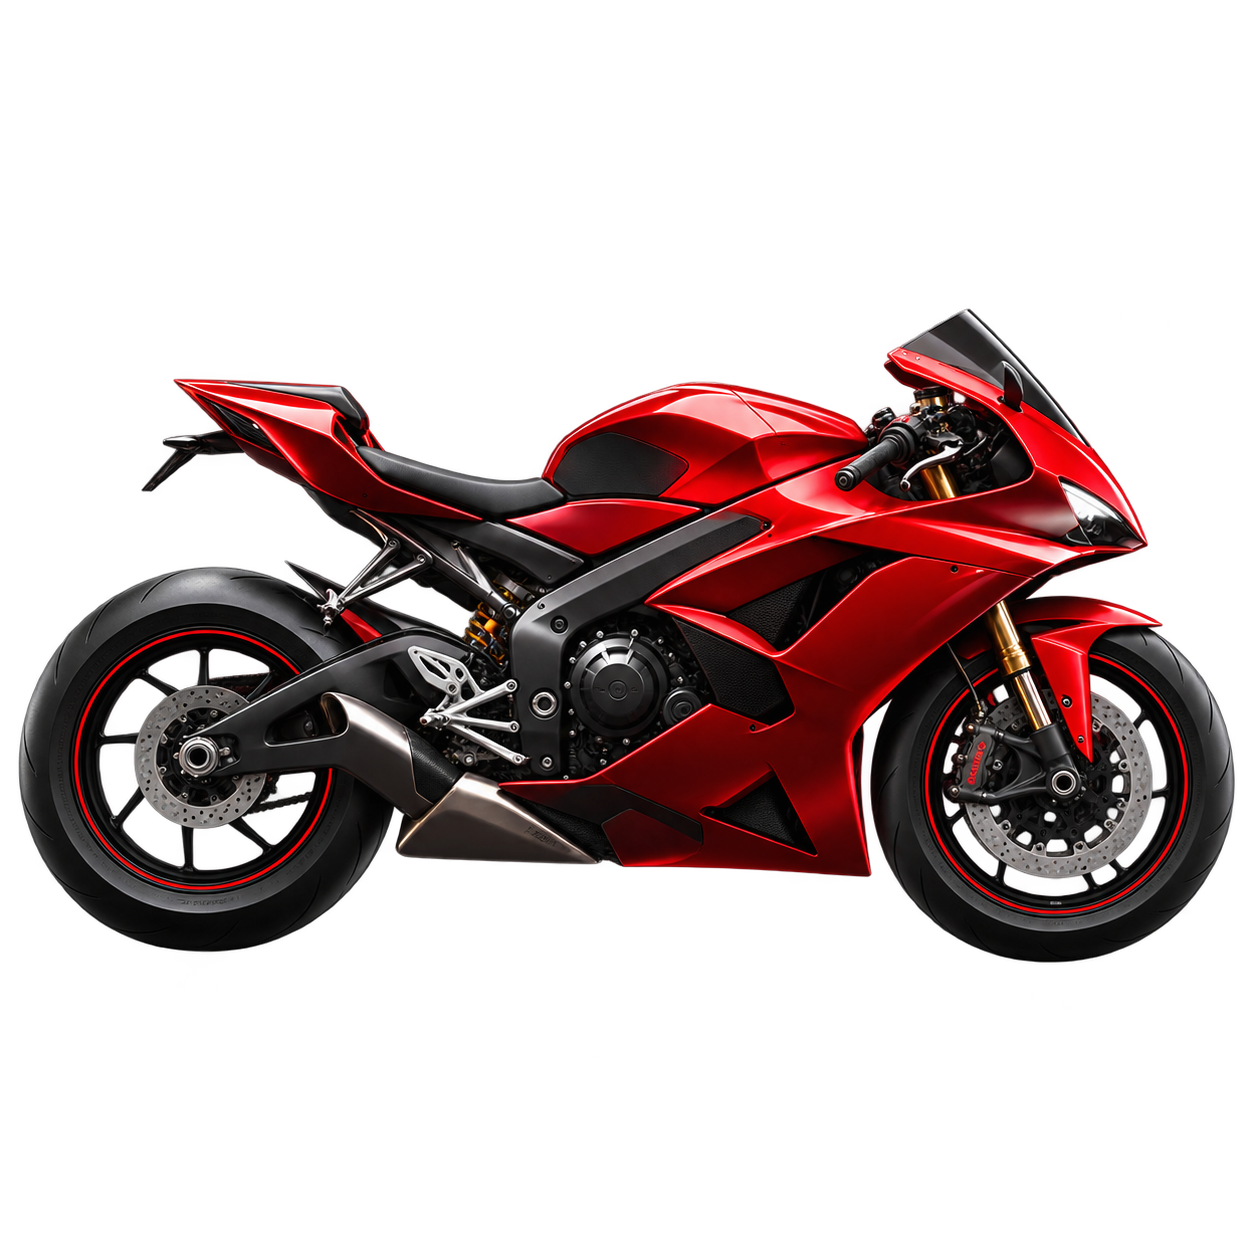
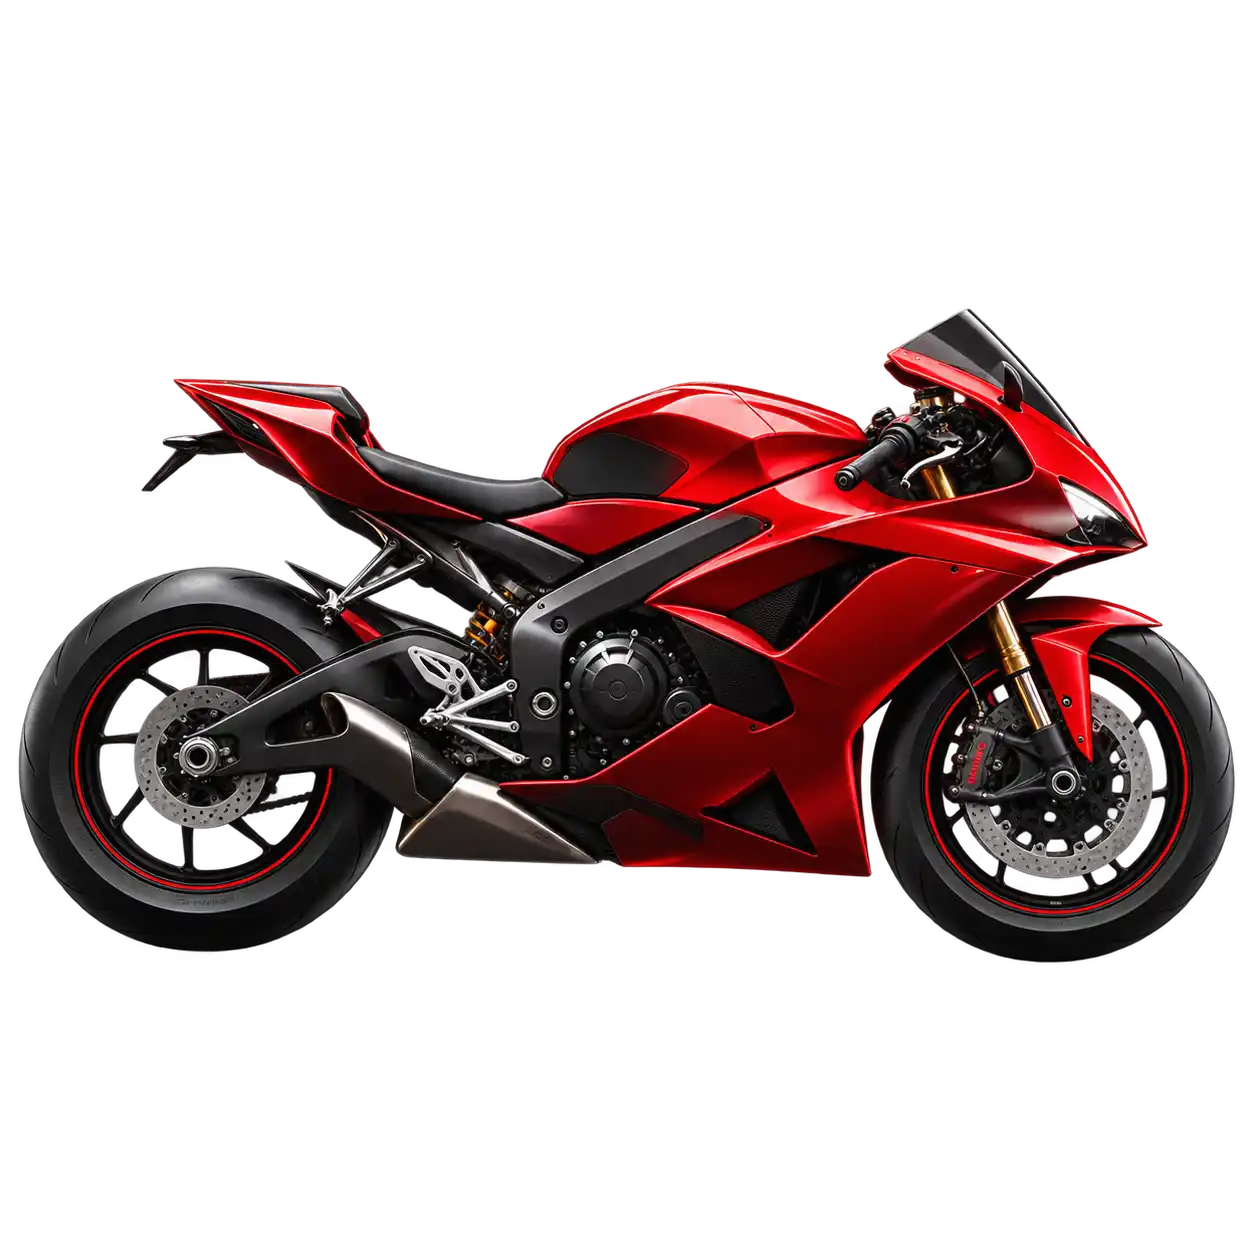
Fix mobile installment modal layout

diff --git a/components/installments/InstallmentModal.tsx b/components/installments/InstallmentModal.tsx
@@ -57,11 +57,11 @@ export function InstallmentModal({
             <button type="button" onClick={onClose} aria-label="Close installment options" className="grid h-10 w-10 shrink-0 place-items-center rounded-full bg-white/[.05] text-zinc-400 ring-1 ring-inset ring-white/[.08] transition hover:bg-autox-red hover:text-white"><X size={18}/></button>
           </div>
 
-          <div className="mt-5 grid gap-4 sm:grid-cols-[150px_1fr]">
-            <div className="relative grid min-h-[150px] place-items-center overflow-hidden rounded-2xl bg-[radial-gradient(circle_at_center,rgba(237,28,36,.2),transparent_58%),#050506] ring-1 ring-inset ring-autox-red/25">
-              {product.image ? <img src={product.image} alt={product.name} className="h-[138px] w-[138px] object-contain drop-shadow-[0_14px_28px_rgba(237,28,36,.28)]"/> : <CreditCard size={42} className="text-autox-red"/>}
+          <div className="mt-5 grid grid-cols-[108px_minmax(0,1fr)] gap-3 sm:grid-cols-[150px_1fr] sm:gap-4">
+            <div className="relative grid min-h-[112px] place-items-center overflow-hidden rounded-2xl bg-[radial-gradient(circle_at_center,rgba(237,28,36,.2),transparent_58%),#050506] ring-1 ring-inset ring-autox-red/25 sm:min-h-[150px]">
+              {product.image ? <img src={product.image} alt={product.name} className="h-[96px] w-[96px] object-contain drop-shadow-[0_14px_28px_rgba(237,28,36,.28)] sm:h-[138px] sm:w-[138px]"/> : <CreditCard size={42} className="text-autox-red"/>}
             </div>
-            <div className="flex min-w-0 flex-col justify-center rounded-2xl bg-white/[.035] p-4 ring-1 ring-inset ring-white/[.07]">
+            <div className="flex min-w-0 flex-col justify-center rounded-2xl bg-white/[.035] p-3 ring-1 ring-inset ring-white/[.07] sm:p-4">
               <div className="flex flex-wrap items-center gap-2">{product.genuine && <span className="rounded-full bg-autox-red px-2.5 py-1 text-[9px] font-black uppercase tracking-wide text-white">Genuine</span>}<span className="text-[10px] font-bold uppercase tracking-wide text-zinc-500">{product.brand}</span></div>
               <h3 className="mt-2 line-clamp-2 text-lg font-extrabold text-white">{product.name}</h3>
               <div className="mt-3 flex flex-wrap items-end justify-between gap-3"><div><p className="text-[9px] font-bold uppercase tracking-[.15em] text-zinc-600">Price</p><p className="mt-1 text-2xl font-black tracking-tight text-white">{formatPrice(product.price)}</p></div><span className={cn("text-[10px] font-bold", product.inStock === false ? "text-zinc-500" : "text-emerald-400")}>{product.inStock === false ? "Out of Stock" : "In Stock"}</span></div>
@@ -69,7 +69,7 @@ export function InstallmentModal({
           </div>
 
           <div className="mt-4 rounded-2xl bg-[#0d0f12] p-4 ring-1 ring-inset ring-white/[.08]">
-            <div className="flex items-center justify-between gap-4"><div className="flex items-center gap-3"><span className="grid h-10 w-10 place-items-center rounded-xl bg-autox-red/10 text-autox-red ring-1 ring-inset ring-autox-red/20"><CreditCard size={18}/></span><div><p className="text-sm font-extrabold text-white">Installment Option</p><p className="text-[10px] text-zinc-500">KOKO / Mintpay where enabled at checkout</p></div></div><span className="rounded-full bg-black/40 px-3 py-1.5 text-[9px] font-black uppercase tracking-wide text-autox-red ring-1 ring-inset ring-autox-red/30">3 or 6 months</span></div>
+            <div className="flex items-center justify-between gap-4"><div className="flex items-center gap-3"><span className="grid h-10 w-10 place-items-center rounded-xl bg-autox-red/10 text-autox-red ring-1 ring-inset ring-autox-red/20"><CreditCard size={18}/></span><div><p className="text-sm font-extrabold text-white">Installment Option</p><p className="text-[10px] text-zinc-500">KOKO / Mintpay where enabled at checkout</p></div></div><span className="inline-flex shrink-0 items-center justify-center whitespace-nowrap rounded-full bg-black/40 px-3 py-1.5 text-center text-[9px] font-black uppercase leading-none tracking-wide text-autox-red ring-1 ring-inset ring-autox-red/30 sm:justify-start sm:text-left">3 or 6 months</span></div>
           </div>
 
           <div className="mt-5"><p className="mb-3 text-[10px] font-black uppercase tracking-[.16em] text-zinc-500">Select duration</p><div className="grid grid-cols-2 gap-3">{([3,6] as const).map((plan)=><button key={plan} type="button" onClick={()=>setMonths(plan)} className={cn("relative min-h-[108px] rounded-2xl p-4 text-left transition-all duration-200", months===plan ? "bg-[linear-gradient(145deg,rgba(237,28,36,.16),rgba(237,28,36,.035))] shadow-[0_0_0_1px_#ed1c24,0_14px_35px_rgba(237,28,36,.13)]" : "bg-[#0b0d10] ring-1 ring-inset ring-white/[.1] hover:ring-autox-red/40")}><span className={cn("grid h-8 w-8 place-items-center rounded-xl",months===plan?"bg-autox-red text-white":"bg-white/[.04] text-autox-red")}><CalendarDays size={16}/></span><p className="mt-3 text-sm font-extrabold text-white">{plan} Months</p><p className="mt-1 text-[11px] text-zinc-400"><span className="font-extrabold text-white">{formatPrice(Math.ceil(product.price/plan))}</span> / month</p>{months===plan&&<span className="absolute right-3 top-3 grid h-5 w-5 place-items-center rounded-full bg-autox-red text-white"><Check size={12} strokeWidth={3}/></span>}</button>)}</div></div>

diff --git a/scripts/qa-integrity.ts b/scripts/qa-integrity.ts
@@ -191,7 +191,7 @@ expect(text("app/(storefront)/cart/page.tsx").includes("outsideColomboStandardDe
 expect(text("components/admin/AdminGeneralSettings.tsx").includes("Regional Shipping Settings"), "regional shipping fees are admin configurable");
 expect(text("components/pages/BrandPageServer.tsx").includes("Popular {brand.name} models") && text("app/(storefront)/brands/honda/page.tsx").includes("BrandPageServer"), "all brand detail pages share the polished brand layout");
 expect(text("components/HomeLaunchExperience.module.css").includes("width: 65%"), "home launcher bike uses requested 65% width");
-expect(text("components/HomeLaunchExperience.tsx").includes("/images/ui/loader-ui.webp") && existsSync(join(root, "public/images/ui/loader-ui.webp")), "home launcher uses optimized WebP bike asset");
+expect(text("components/HomeLaunchExperience.tsx").includes("/images/ui/autox-loader-bike.webp") && existsSync(join(root, "public/images/ui/autox-loader-bike.webp")), "home launcher uses optimized WebP bike asset");
 
 if (failed) {
   console.error(`\n${failed} integrity check(s) failed.`);

diff --git a/components/HomeLaunchExperience.tsx b/components/HomeLaunchExperience.tsx
@@ -89,7 +89,7 @@ export function HomeLaunchExperience({ children }: { children: ReactNode }) {
 
               <div className={styles.bikeHolder}>
                 <Image
-                  src="/images/ui/loader-ui.webp"
+                  src="/images/ui/autox-loader-bike.webp"
                   alt=""
                   width={1254}
                   height={1254}
